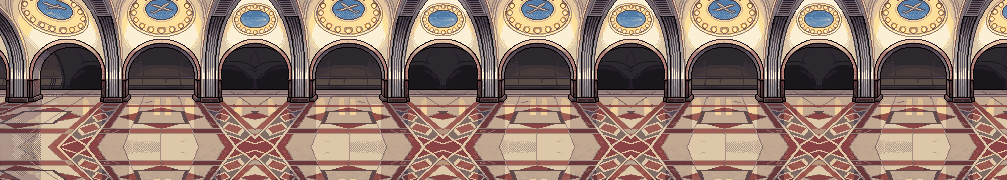
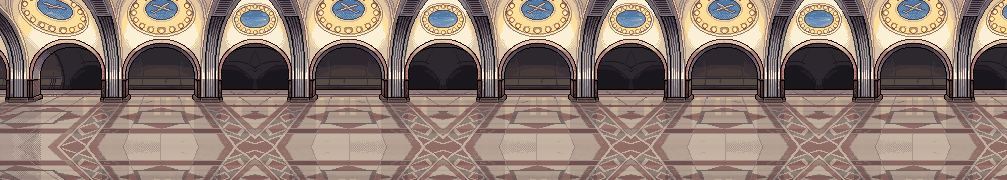
Маяковская: пол приглушён под бой (контраст и насыщенность)

Changed region(s): [[0.0, 0.5556, 1.0, 1.0]]

diff --git a/tools/route_build.py b/tools/route_build.py
@@ -453,7 +453,7 @@ def final_mayak():
     # оси симметрии M: центры арок x=67, 161, 255. Куски стыкуются зеркалом по центру арки
     a = np.array(m)
     mid = [a[:, 67:255][:, ::-1], a[:, 67:255]] * MAYAK_PAIRS  # длина: пары «зеркало + прямо» по 188
-    img = oval_fix(Image.fromarray(np.concatenate([a[:, 0:255]] + mid, axis=1)))
+    img = calm_floor(oval_fix(Image.fromarray(np.concatenate([a[:, 0:255]] + mid, axis=1))))
     return {"mayak-back": img, "mayak": arch_cut(img)}, [WALL] * img.width
 
 
@@ -477,6 +477,19 @@ def arch_cut(img):
 
 
 MAYAK_PAIRS = 2
+FLOOR_CALM = (0.55, 0.65)  # пол «Маяковской»: доля контраста и насыщенности (ресерч 01.11: узор спорил с ногами и красными телеграфами боссов)
+
+
+def calm_floor(img, y0=100):
+    """Приглушает пол ниже линии стены: контраст к среднему по строке, насыщенность к серому. Стена и арки не меняются."""
+    a = np.array(img).astype(float)
+    k, s = FLOOR_CALM
+    f = a[y0:, :, :3]
+    mean = f.mean(axis=1, keepdims=True)
+    f = mean + (f - mean) * k
+    grey = f.mean(axis=2, keepdims=True)
+    a[y0:, :, :3] = grey + (f - grey) * s
+    return Image.fromarray(np.clip(a, 0, 255).astype(np.uint8))
 ARCH_ROWS = (36, 92)  # строки src, где ищем проёмы арок
 
 
